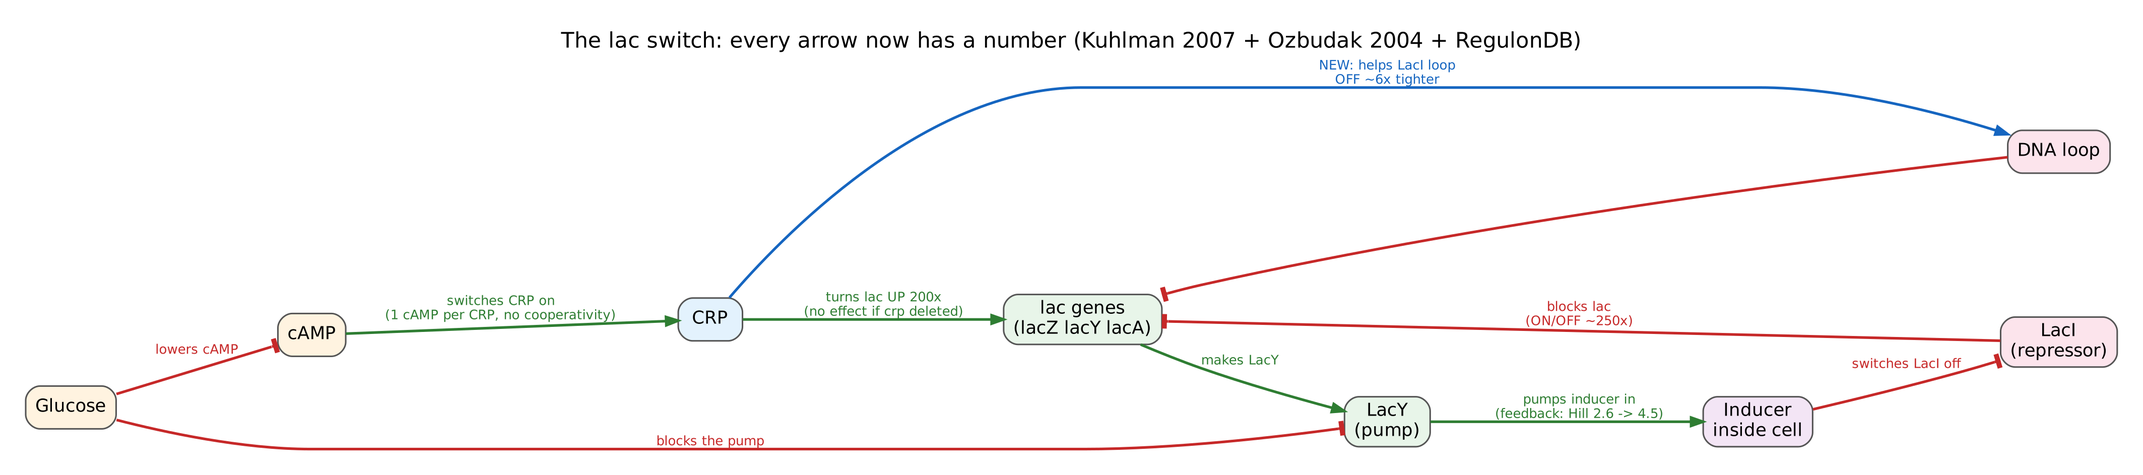
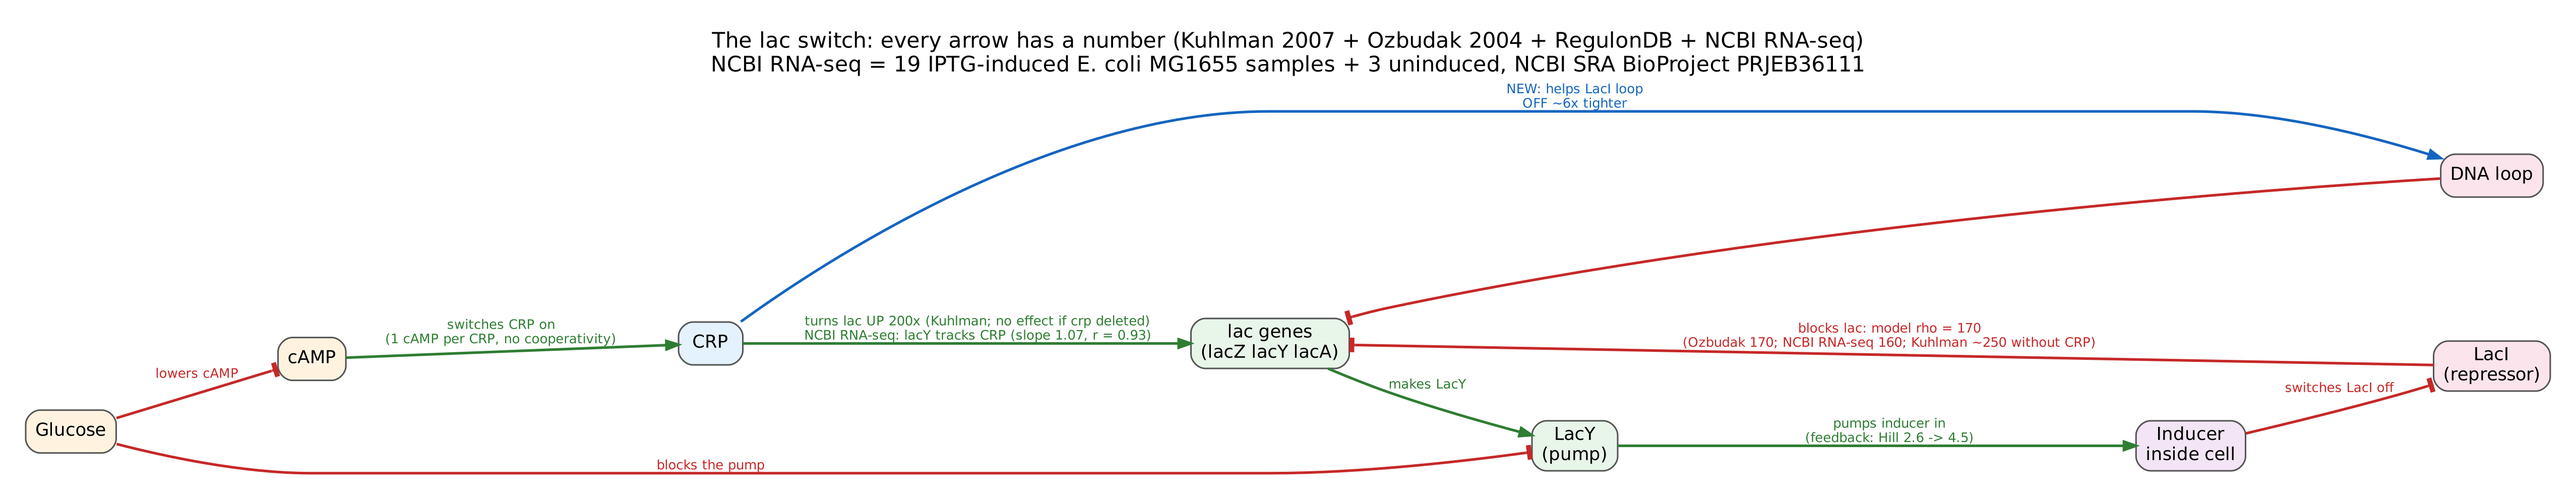
A3: show the NCBI RNA-seq evidence for the lac edges
- lac switch figure: CRP -> lac and LacI -| lac now show the NCBI RNA-seq evidence (19 IPTG-induced MG1655
  samples, NCBI SRA BioProject PRJEB36111: rho = 160, lacY tracks CRP with slope 1.07)
- READMEs: name the source correctly (NCBI SRA PRJEB36111, not GEO); add it to the A3 inputs and checks

diff --git a/student_a_intracellular/src/draw_network.py b/student_a_intracellular/src/draw_network.py
@@ -9,8 +9,8 @@ def head(sign): return 'normal' if sign == '+' else 'tee' if sign == '-' else 'o
 core = [
  ('glucose','cAMP','-','lowers cAMP'),
  ('cAMP','CRP','+','switches CRP on\n(1 cAMP per CRP, no cooperativity)'),
- ('CRP','lac','+','turns lac UP 200x\n(no effect if crp deleted)'),
- ('LacI','lac','-','blocks lac\n(ON/OFF ~250x)'),
+ ('CRP','lac','+','turns lac UP 200x (Kuhlman; no effect if crp deleted)\nNCBI RNA-seq: lacY tracks CRP (slope 1.07, r = 0.93)'),
+ ('LacI','lac','-','blocks lac: model rho = 170\n(Ozbudak 170; NCBI RNA-seq 160; Kuhlman ~250 without CRP)'),
  ('CRP','loop','+','NEW: helps LacI loop\nOFF ~6x tighter'),
  ('loop','lac','-',''),
  ('lac','LacY','+','makes LacY'),
@@ -29,7 +29,7 @@ for s,t,sg,l in core:
     c = NEW if 'NEW' in l else col(sg)
     d.append(f'"{s}" -> "{t}" [color="{c}", fontcolor="{c}", arrowhead={head(sg)}, label="{l}"];')
 d.append('{rank=same; "LacI"; "loop";} {rank=same; "lac";}')
-d.append('labelloc=t; fontsize=18; label="The lac switch: every arrow now has a number (Kuhlman 2007 + Ozbudak 2004 + RegulonDB)";}')
+d.append('labelloc=t; fontsize=18; label="The lac switch: every arrow has a number (Kuhlman 2007 + Ozbudak 2004 + RegulonDB + NCBI RNA-seq)\\nNCBI RNA-seq = 19 IPTG-induced E. coli MG1655 samples + 3 uninduced, NCBI SRA BioProject PRJEB36111";}')
 open('fig_lac_switch_quantified.dot','w').write('\n'.join(d))
 subprocess.run(['dot','-Tpng','-Gdpi=170','fig_lac_switch_quantified.dot','-o','fig_lac_switch_quantified.png'],check=True)
 

diff --git a/student_a_intracellular/outputs/a3/README.md b/student_a_intracellular/outputs/a3/README.md
@@ -34,11 +34,12 @@ The model also carries the 21 causal CRP outputs from A2, so later tasks can com
 | `data/curated/lac_network_gene_check.xlsx` | combined network table: RegulonDB + A2 + Kuhlman + Ozbudak | curated, in git |
 | Ozbudak 2004 Fig. 2c thresholds | switch-ON / switch-OFF TMG at each glucose level | digitised in `src/fit_parameters.py` |
 | Kuhlman 2007 | CRP raises *lac* ~200-fold; CRP-free basal 1/240; LacI loop | published values in the code |
+| 19 IPTG-induced + 3 uninduced MG1655 RNA-seq samples | *lac* fully ON: repression strength ρ and the CRP → *lac* slope | NCBI SRA BioProject PRJEB36111 (project `srna_oe` in the K-12 modulome; `get_data.py`) |
 
 ## 3. Method
 1. **Topology.** Species: *lac* promoter (free / LacI-bound), *lac* mRNA, LacY (the permease), internal inducer, plus mRNA and protein for each of the 21 CRP outputs. Reactions: transcription (CRP-activated, LacI-repressed), translation, decay/dilution, LacY-dependent inducer uptake, inducer release of LacI, glucose → lower cAMP and inducer exclusion (`src/reaction_network.py`).
-2. **Where the *lac* edges come from.** A2 could not test *lac* (no inducer in PRECISE-1K). Each edge is instead backed by RegulonDB 'Confirmed' evidence, the Kuhlman 2007 cAMP titration (with a Δcrp control), IPTG-induced NCBI GEO samples, and Ozbudak's own measurements. Every edge's source is recorded in `validated_edges.json`.
-3. **Repression factor ρ** (how much LacI shuts *lac* off) from three routes: Ozbudak's GFP (170), a free fit to his phase diagram (173), and PRECISE-1K *lacY* RNA in MG1655 (160, the only route independent of Ozbudak).
+2. **Where the *lac* edges come from.** A2 could not test *lac* (no inducer in PRECISE-1K). Each edge is instead backed by RegulonDB 'Confirmed' evidence, the Kuhlman 2007 cAMP titration (with a Δcrp control), 19 IPTG-induced RNA-seq samples from NCBI SRA (BioProject PRJEB36111), and Ozbudak's own measurements. Every edge's source is recorded in `validated_edges.json`.
+3. **Repression factor ρ** (how much LacI shuts *lac* off) from three routes: Ozbudak's GFP (170), a free fit to his phase diagram (173), and RNA-seq *lacY* in 19 IPTG-induced MG1655 samples from NCBI SRA (BioProject PRJEB36111) vs uninduced PRECISE-1K MG1655 (160, the only route independent of Ozbudak).
 4. **Fit.** Hill parameters are fitted to Ozbudak's **switch-ON** thresholds only; the **switch-OFF** thresholds are held out and predicted (`src/fit_parameters.py`).
 5. **CRP outputs.** Each of the 21 A2 genes gets a Hill response to CRP activity fitted on PRECISE-1K (`src/crp_outputs.py`), validated on an unseen cAMP-titration experiment.
 6. **Build the final model** (v3): network table → circuit edges with evidence → parameters, initial states for OFF and ON history, a crp-knockout version (CRP-free basal 1/240, LacI loop ρ 170 → 22 as in Kuhlman) → `circuit_model.yaml` and SBML (`src/build_network.py`, `src/build_a3_v3.py`).
@@ -86,7 +87,7 @@ Takes about 3 minutes. `python verify.py --a3` refits A3 and checks the result i
 - **Where each edge comes from:**
   - **RegulonDB 14.5.1:** CRP → lac and LacI ⊣ lac are "Confirmed".
   - **Kuhlman 2007:** cAMP titration with LacI removed; lac rises about 200× and stays flat in Δcrp.
-  - **IPTG-induced samples from NCBI GEO:** repression factor ρ ≈ 160.
+  - **NCBI RNA-seq (19 IPTG-induced RNA-seq samples from NCBI SRA (BioProject PRJEB36111)):** repression factor ρ ≈ 160 (LacI ⊣ lac), and *lacY* tracks CRP activity with slope 1.07, r = 0.93 (CRP → lac).
   - **Ozbudak 2004:** uptake and glucose effects.
 - **Outcome.** Every lac edge is supported by curated or interventional evidence. Each edge's source is recorded in [`validated_edges.json`](validated_edges.json).
 
@@ -141,6 +142,8 @@ Takes about 3 minutes. `python verify.py --a3` refits A3 and checks the result i
 | Cusp (smallest ρ with memory) | ≈ 9 | 9.01 | ✔ |
 | ρ = 170 and 50 switch, ρ = 5 graded | yes | yes | ✔ |
 | Δcrp never induces | flat (Kuhlman) | LacY < 1 per cell up to 2 mM TMG | ✔ |
+| ρ from NCBI RNA-seq (independent of Ozbudak) | > 9 for a switch | 160 (model 170) | – |
+| CRP → *lac* in NCBI RNA-seq | lac ∝ CRP (Ozbudak Fig. 3b) | slope 1.07, r = 0.93 | – |
 | CRP outputs vs A2 knockout effects | – | r = 0.85 | – |
 | CRP outputs vs unseen cAMP titration | – | r = 0.79, direction right 93% | – |
 | SBML in libSBML / COPASI / GillesPy2 | loads and runs | 0 errors; COPASI = Python ODE | – |

diff --git a/README.md b/README.md
@@ -118,7 +118,7 @@ Activities match the published values for all 1,035 samples.
 **Question.** Can a data-grounded reaction network reproduce the bistability and hysteresis of real cells (Ozbudak et al. 2004)?
 **Method.** Species: promoter states, *lac* mRNA, LacY/LacZ, internal inducer, plus the 21 CRP output genes from A2.
 *lac* edges, which A2 could not test, come from RegulonDB (confirmed edges), Kuhlman et al. 2007 (CRP activates *lac* about 200-fold)
-and IPTG-induced NCBI GEO samples (repression factor ρ ≈ 160). Hill parameters were fitted to Ozbudak's switch-ON thresholds only;
+and 19 IPTG-induced RNA-seq samples from NCBI SRA (BioProject PRJEB36111), which give the repression factor ρ ≈ 160 and show *lac* tracking CRP (slope 1.07). Hill parameters were fitted to Ozbudak's switch-ON thresholds only;
 the switch-OFF thresholds were held out.
 **Result.** The model is bistable with a memory window of 4.1–30 µM TMG (paper 3–30 µM); held-out switch-OFF thresholds are predicted
 within ~23%; the smallest ρ that gives memory is 9.01 (paper ≈ 9); ρ = 170 and 50 strains switch, ρ = 5 does not; a *crp* knockout never switches ON.
